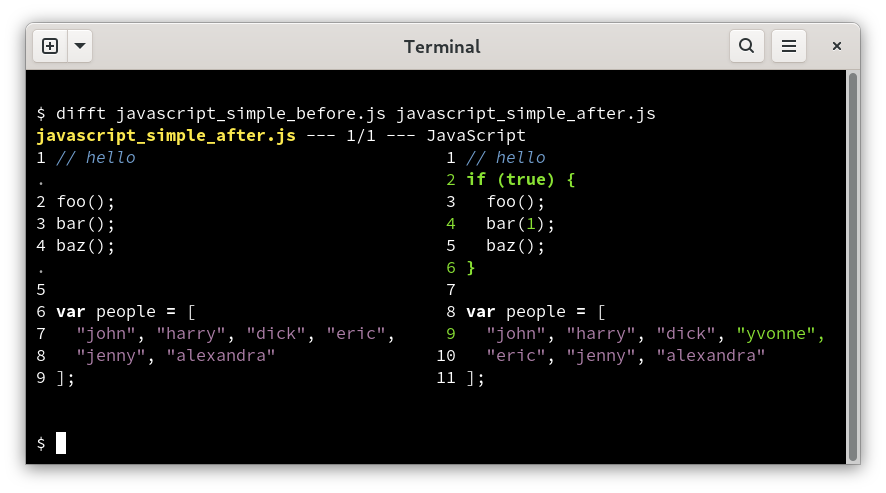
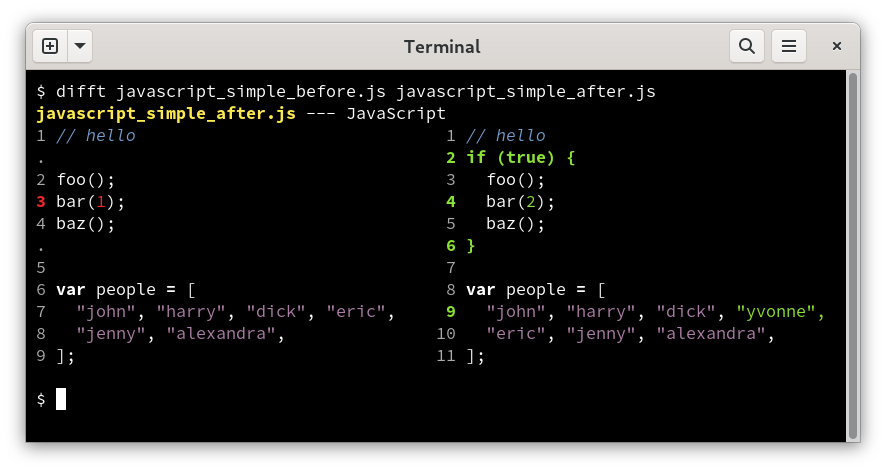
Update screenshot and ensure sample files match

diff --git a/sample_files/javascript_simple_after.js b/sample_files/javascript_simple_after.js
@@ -1,9 +1,11 @@
 // hello
 if (true) {
   foo();
-  bar(1);
+  bar(2);
   baz();
 }
 
-var people = ["john", "harry", "dick", "yvonne",
-              "archibald", "jenny", "alexandra"];
+var people = [
+  "john", "harry", "dick", "yvonne",
+  "eric", "jenny", "alexandra",
+];

diff --git a/sample_files/javascript_simple_before.js b/sample_files/javascript_simple_before.js
@@ -1,7 +1,9 @@
 // hello
 foo();
-bar();
+bar(1);
 baz();
 
-var people = ["john", "harry", "dick", "archibald",
-              "jenny", "alexandra"];
+var people = [
+  "john", "harry", "dick", "eric",
+  "jenny", "alexandra",
+];

diff --git a/README.md b/README.md
@@ -25,7 +25,8 @@ In this JavaScript example, we can see:
 whitespace.
 
 (2) Difftastic understands which lines should be aligned. It's aligned
-`bar()` on the left with `bar(1)` on the right, despite their changes.
+`bar(1)` on the left with `bar(2)` on the right, even though the
+textual content isn't identical.
 
 (3) Difftastic understands that line-wrapping isn't
 meaningful. `"eric"` is now on a new line, but it hasn't changed.
